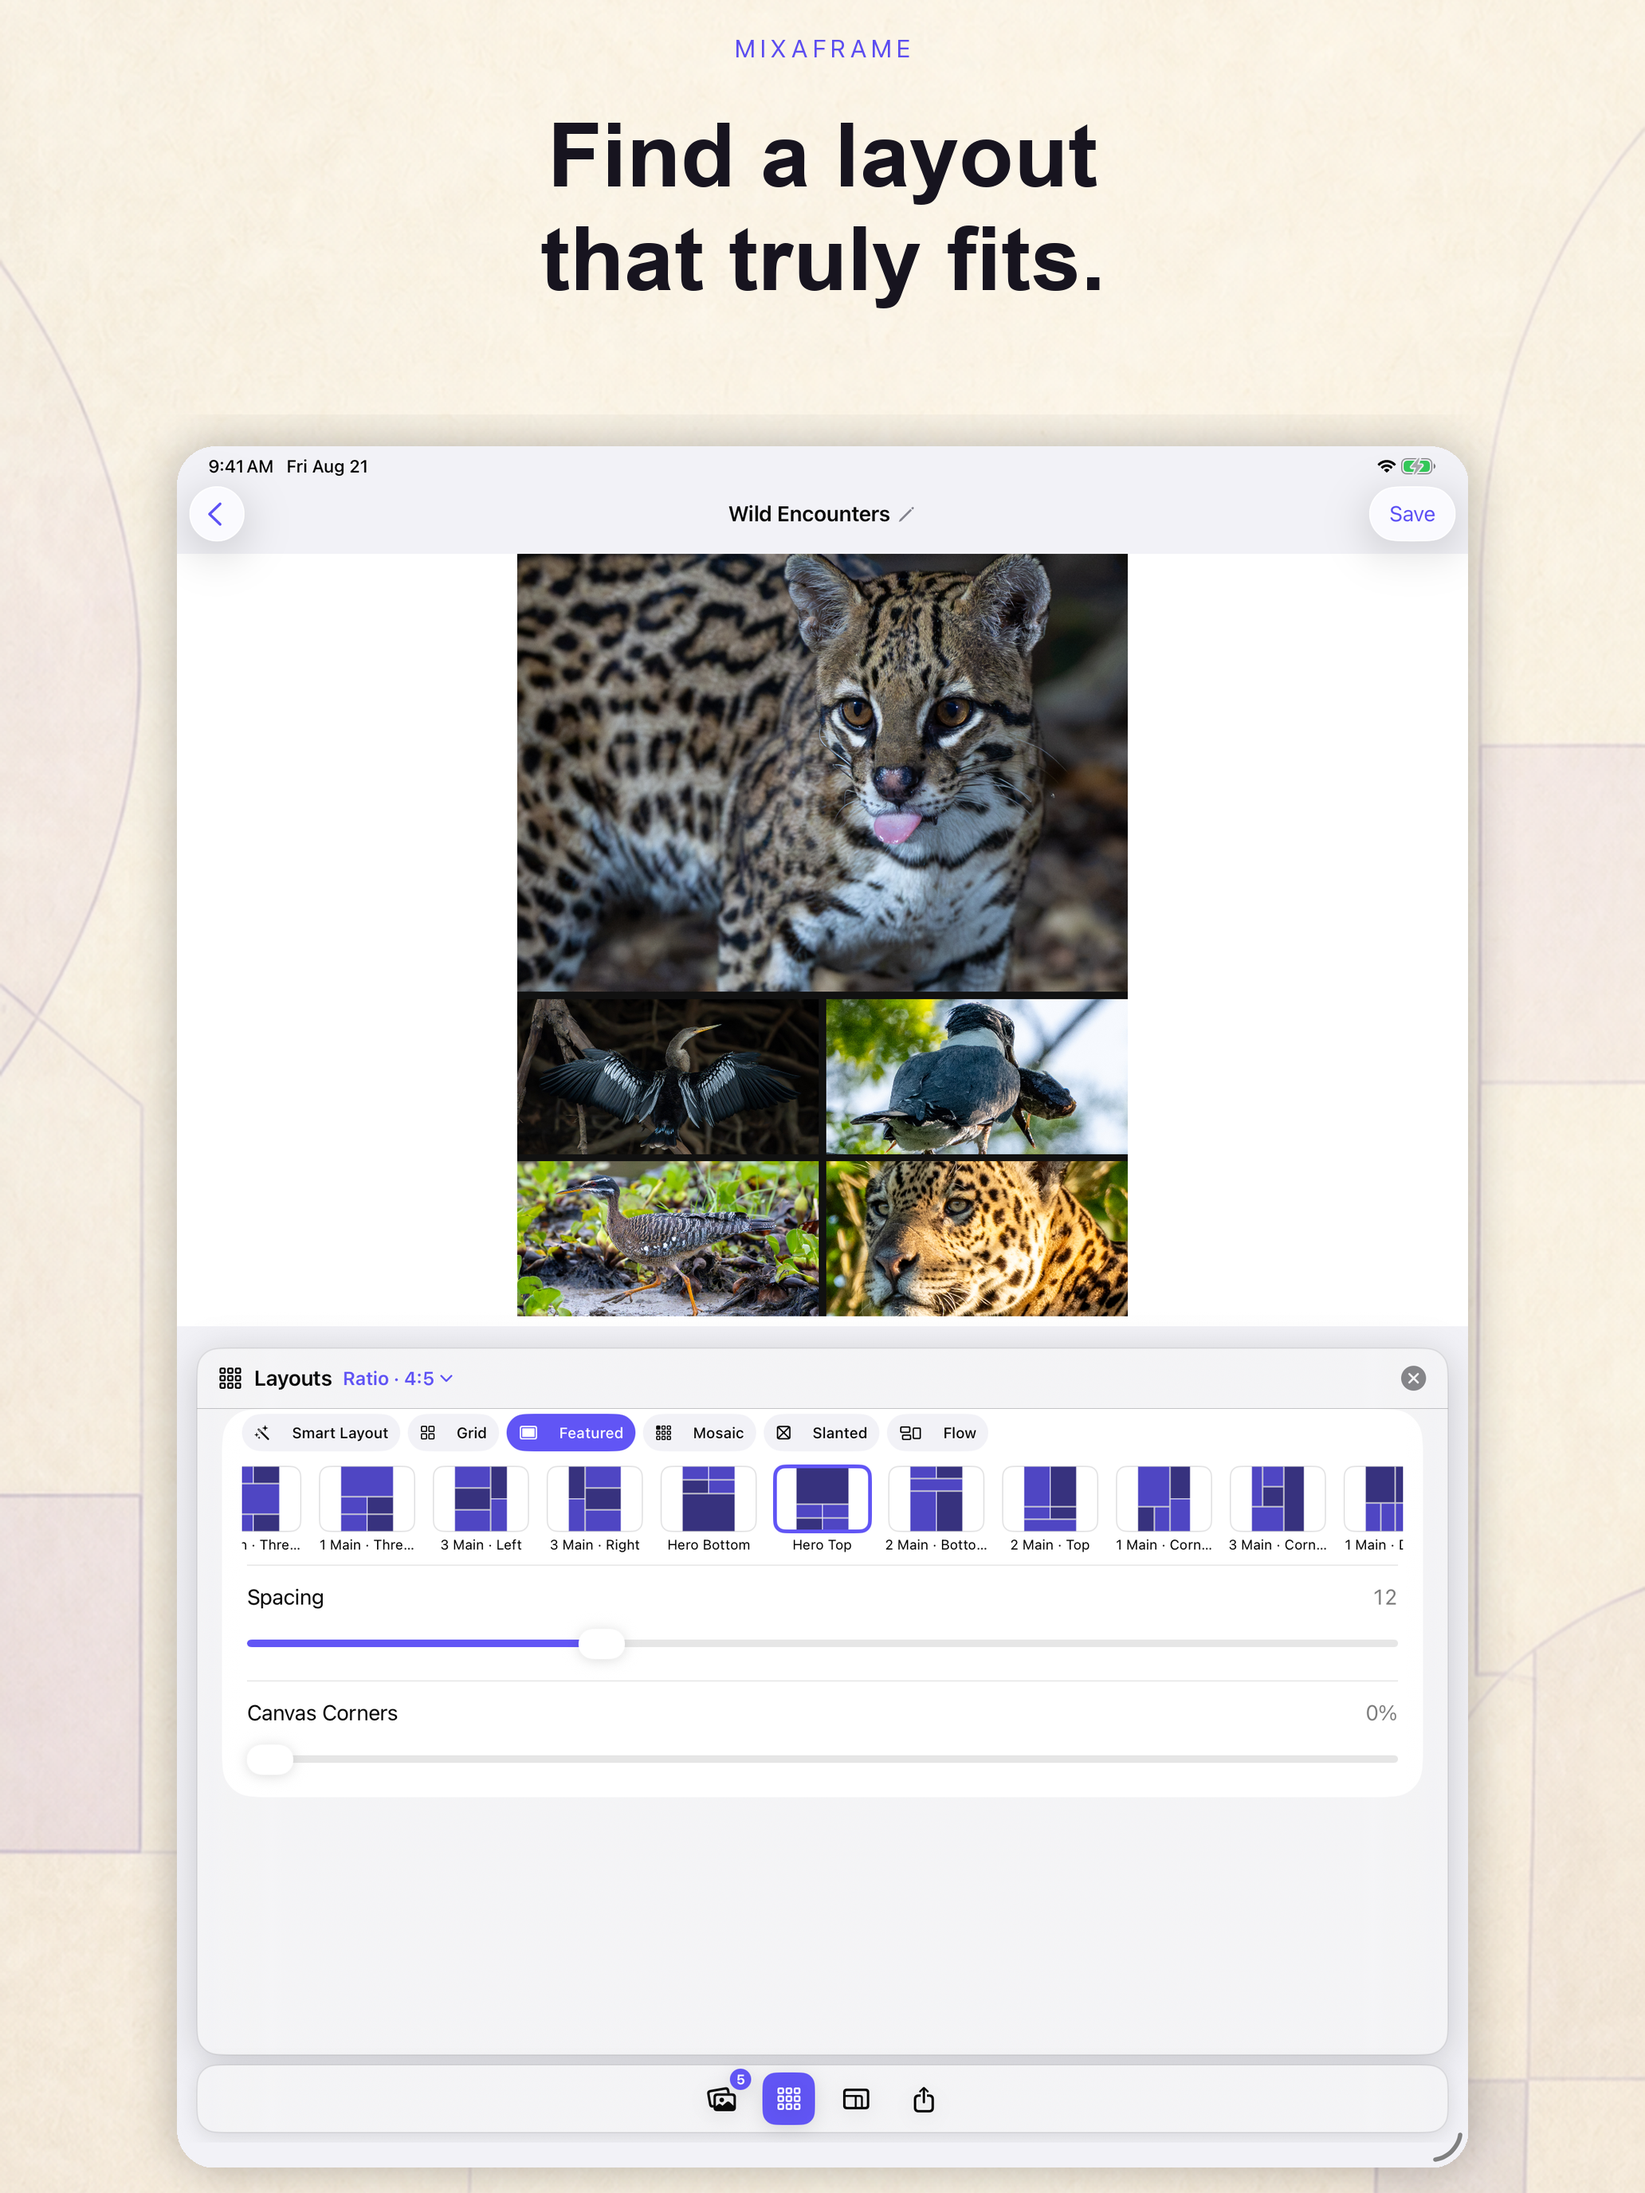
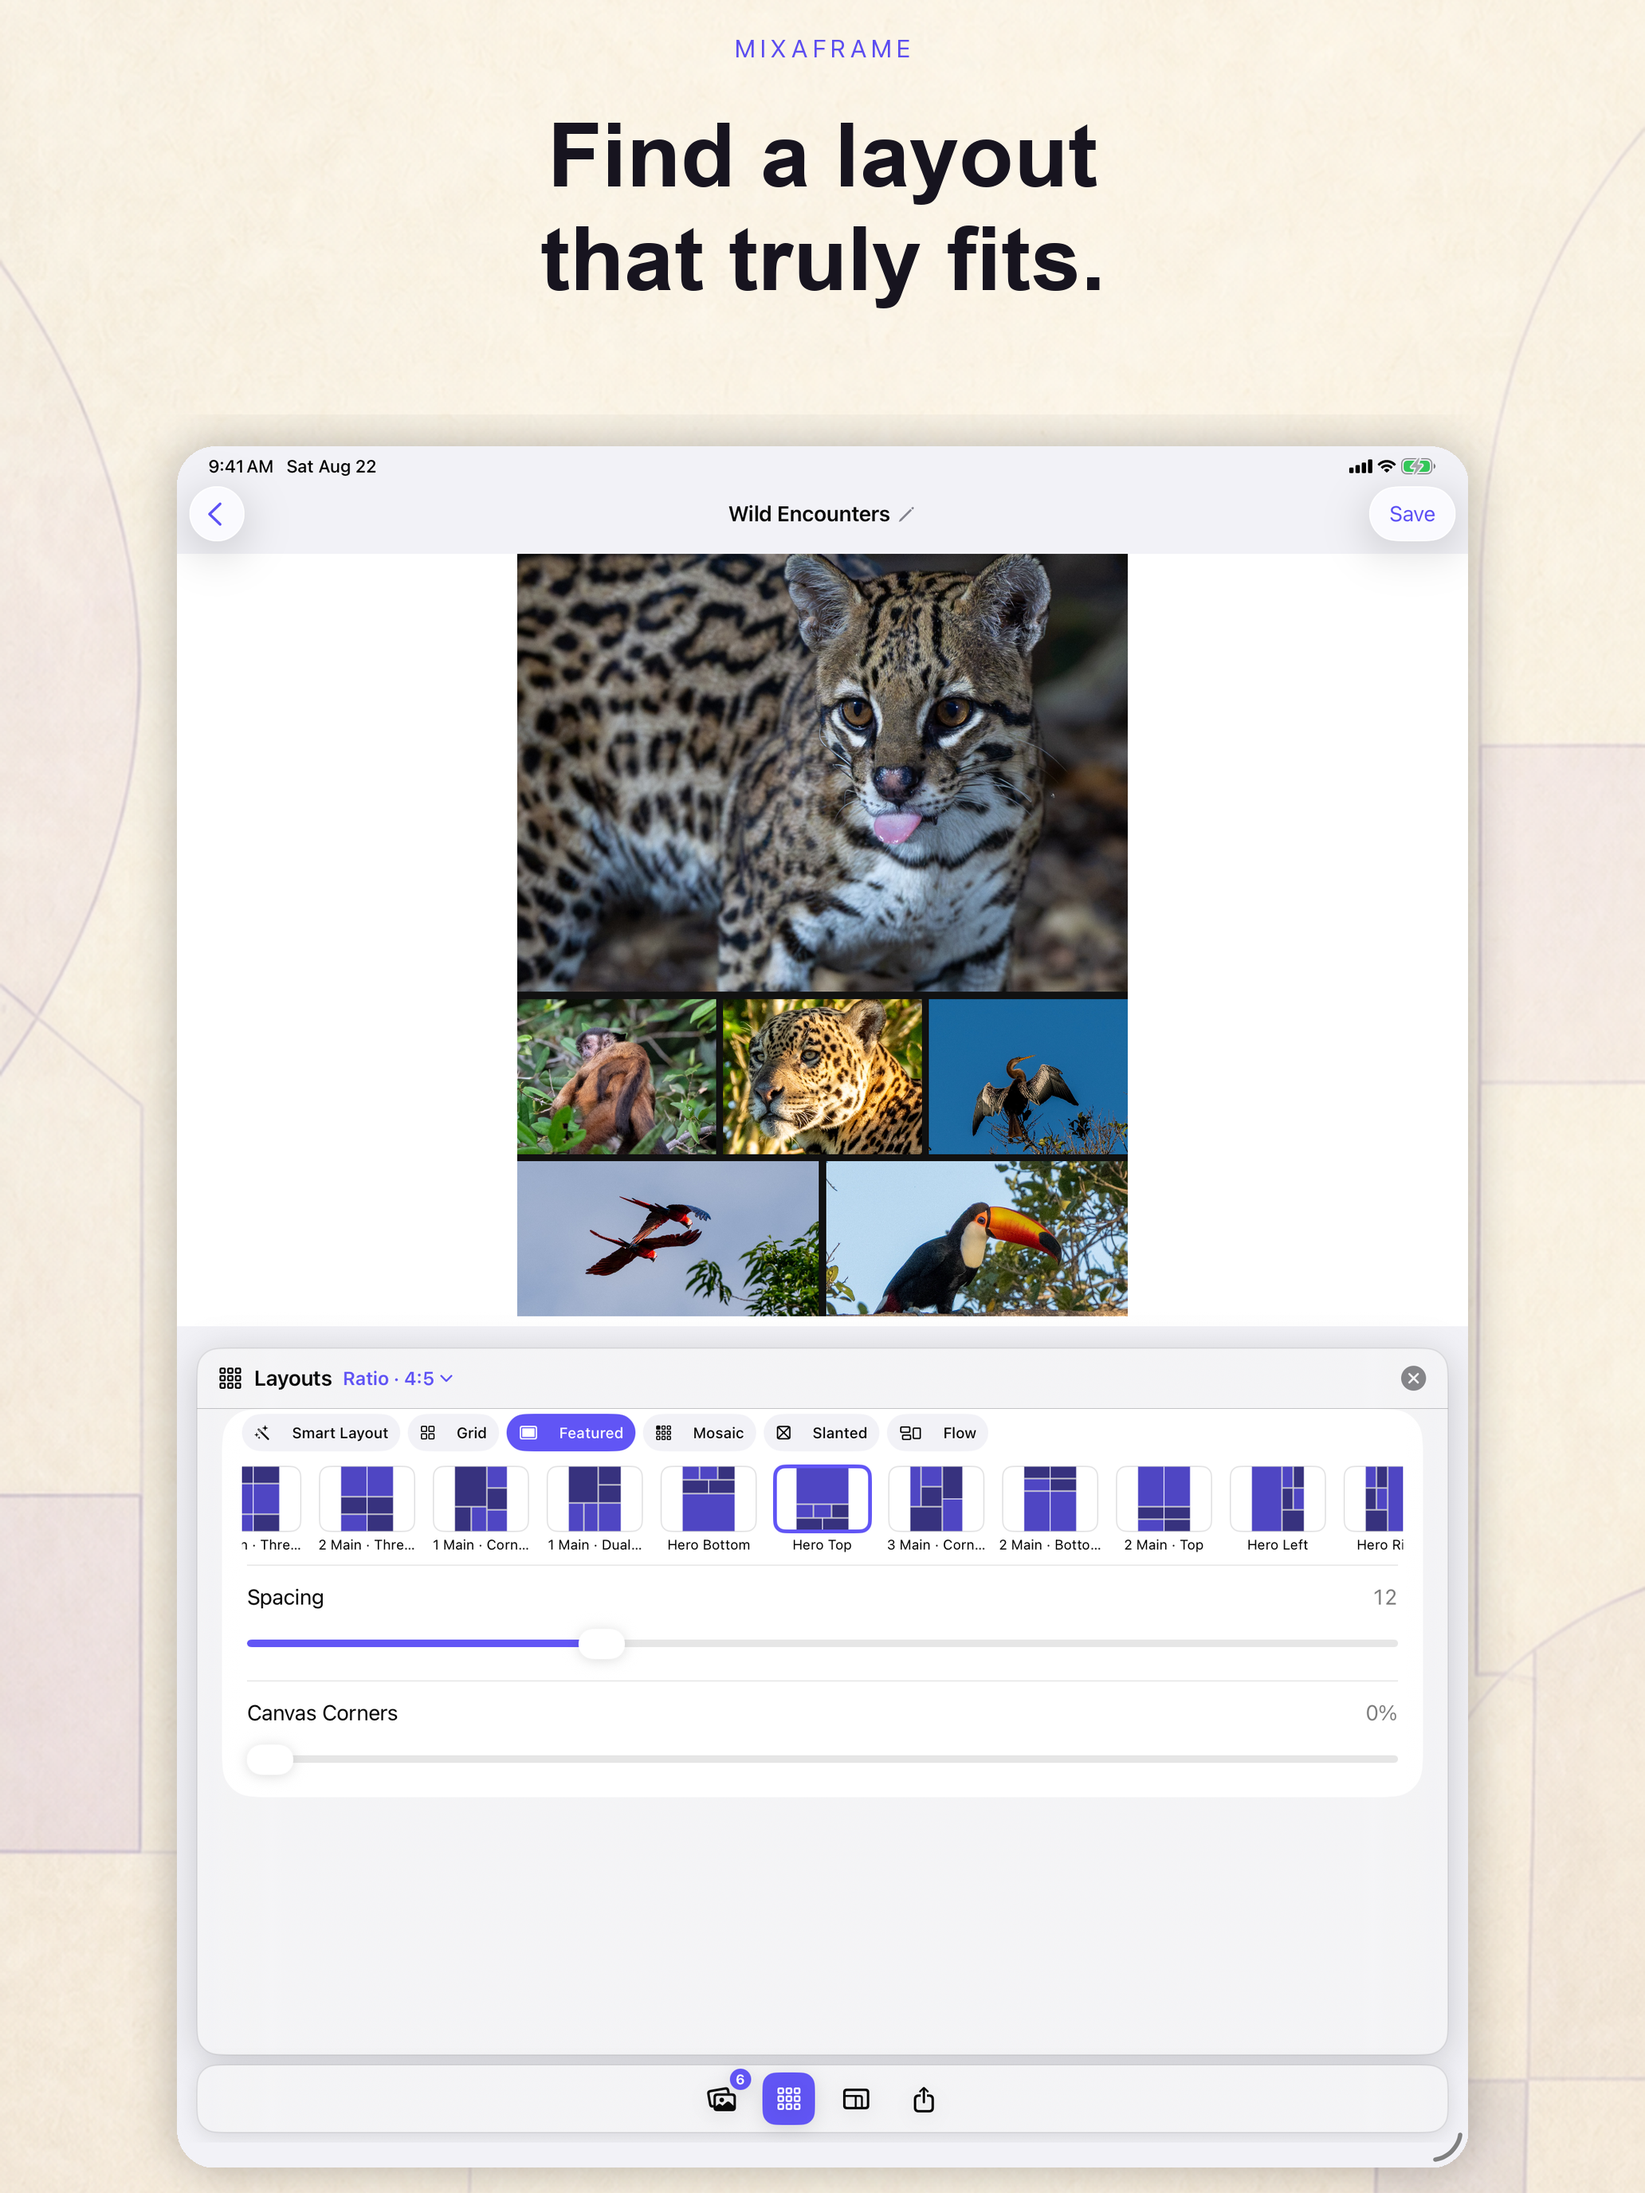
Refresh App Store screenshots with wildlife photos
- Replace the demo gallery with six supplied wildlife photos and focused crop metadata
- Regenerate raw and promotional iPhone and iPad screenshot sets
- Update screenshot documentation for the six-photo Nature Stories library

diff --git a/scripts/prepare_app_store_demo.py b/scripts/prepare_app_store_demo.py
@@ -67,11 +67,12 @@ def project(
 
 def demo_library() -> list[dict[str, object]]:
     wildlife = [
-        photo("A0000000-0000-0000-0000-000000000001", "winged-bird.jpg", 1168, 673, 0.54, 0.47),
-        photo("A0000000-0000-0000-0000-000000000002", "walking-bird.jpg", 1792, 1470, 0.48, 0.53),
-        photo("A0000000-0000-0000-0000-000000000003", "perched-bird.jpg", 1792, 1470, 0.52, 0.50),
-        photo("A0000000-0000-0000-0000-000000000004", "ocelot.jpg", 2204, 2881, 0.58, 0.40),
+        photo("A0000000-0000-0000-0000-000000000001", "monkey-family.jpg", 851, 922, 0.43, 0.37),
+        photo("A0000000-0000-0000-0000-000000000002", "macaws-in-flight.jpg", 2776, 1902, 0.48, 0.64),
+        photo("A0000000-0000-0000-0000-000000000003", "ocelot.jpg", 2204, 2881, 0.58, 0.40),
+        photo("A0000000-0000-0000-0000-000000000004", "anhinga-wings.jpg", 875, 898, 0.43, 0.50),
         photo("A0000000-0000-0000-0000-000000000005", "jaguar-closeup.jpg", 802, 758, 0.48, 0.46),
+        photo("A0000000-0000-0000-0000-000000000006", "toucan.jpg", 924, 851, 0.50, 0.42),
     ]
     projects = [
         project(
@@ -85,14 +86,14 @@ def demo_library() -> list[dict[str, object]]:
             "B0000000-0000-0000-0000-000000000002",
             COLLECTION_ID,
             "Birds in Motion",
-            wildlife[:3],
+            [wildlife[1], wildlife[3], wildlife[5]],
             "featuredLeft",
         ),
         project(
             "B0000000-0000-0000-0000-000000000003",
             COLLECTION_ID,
             "Wildlife Portraits",
-            wildlife[3:],
+            [wildlife[0], wildlife[2], wildlife[4]],
             "columns",
         ),
     ]
@@ -152,11 +153,12 @@ def main() -> None:
     missing = sorted(
         name
         for name in (
+            "anhinga-wings.jpg",
             "jaguar-closeup.jpg",
+            "macaws-in-flight.jpg",
+            "monkey-family.jpg",
             "ocelot.jpg",
-            "perched-bird.jpg",
-            "walking-bird.jpg",
-            "winged-bird.jpg",
+            "toucan.jpg",
         )
         if not (PHOTO_DIRECTORY / name).exists()
     )

diff --git a/docs/app_store_screenshot_instructions.md b/docs/app_store_screenshot_instructions.md
@@ -5,7 +5,7 @@ The finished MixaFrame product-page screenshots are grouped by device family:
 - `AppStoreScreenshots/iPhone/Promotional` contains upload-ready 6.5-inch artwork.
 - `AppStoreScreenshots/iPad/Promotional` contains upload-ready 13-inch iPad artwork.
 
-Both sets use authentic MixaFrame UI captured from the simulator and the same five-photo
+Both sets use authentic MixaFrame UI captured from the simulator and the same six-photo
 Nature Stories demo library.
 
 ## Generate the promotional set
